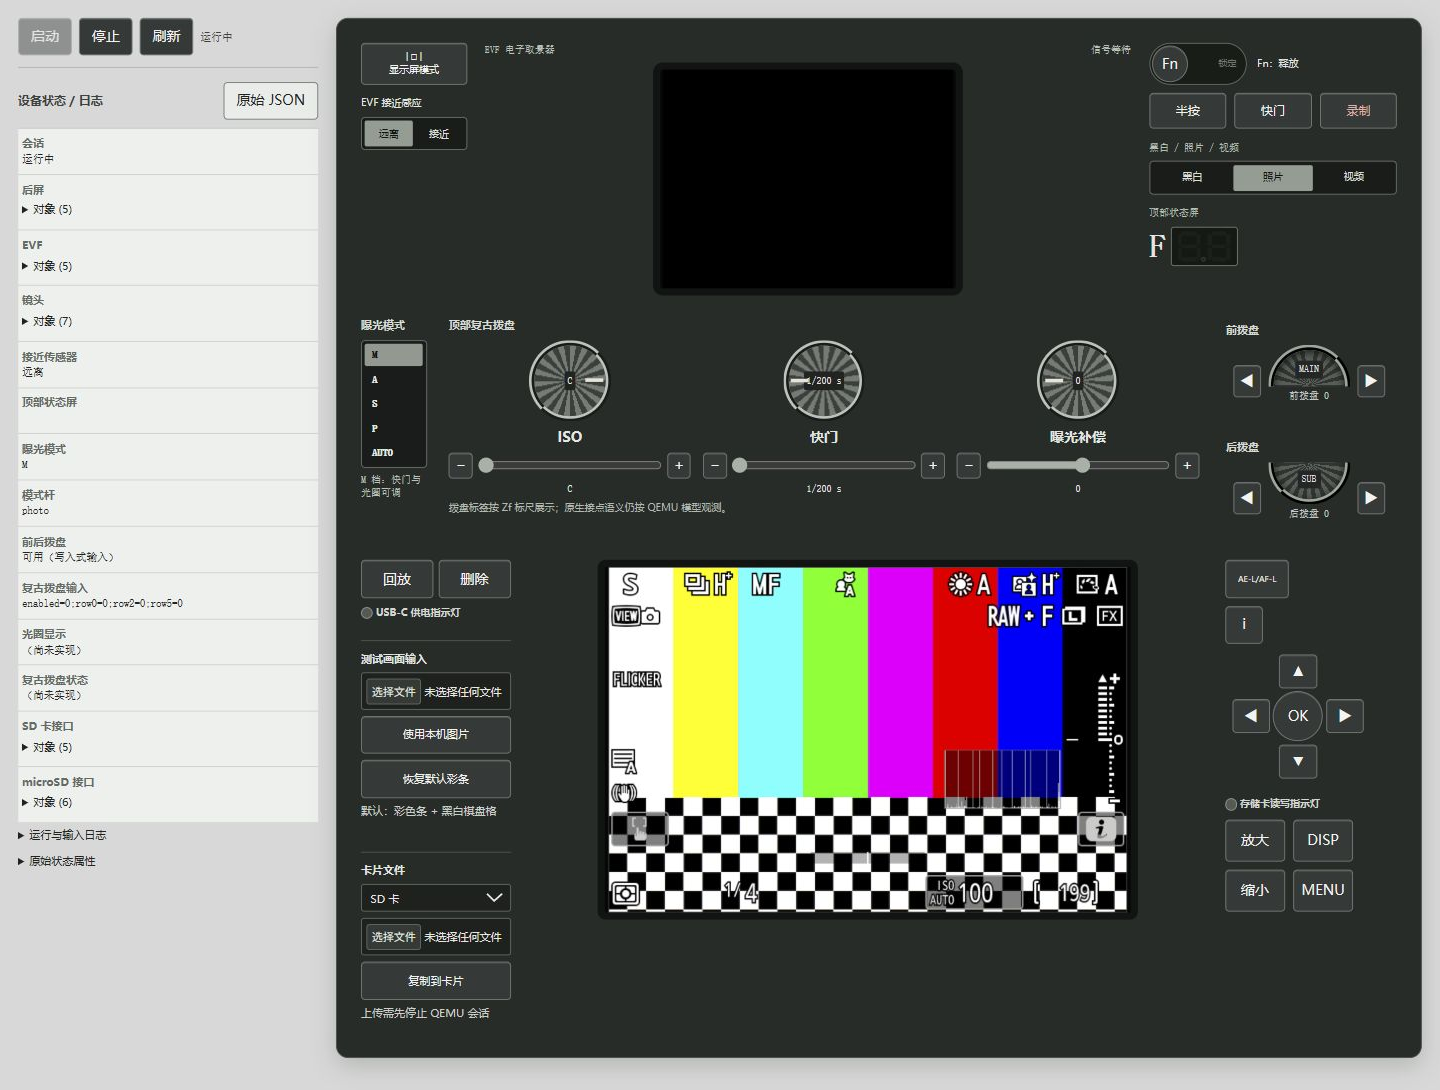
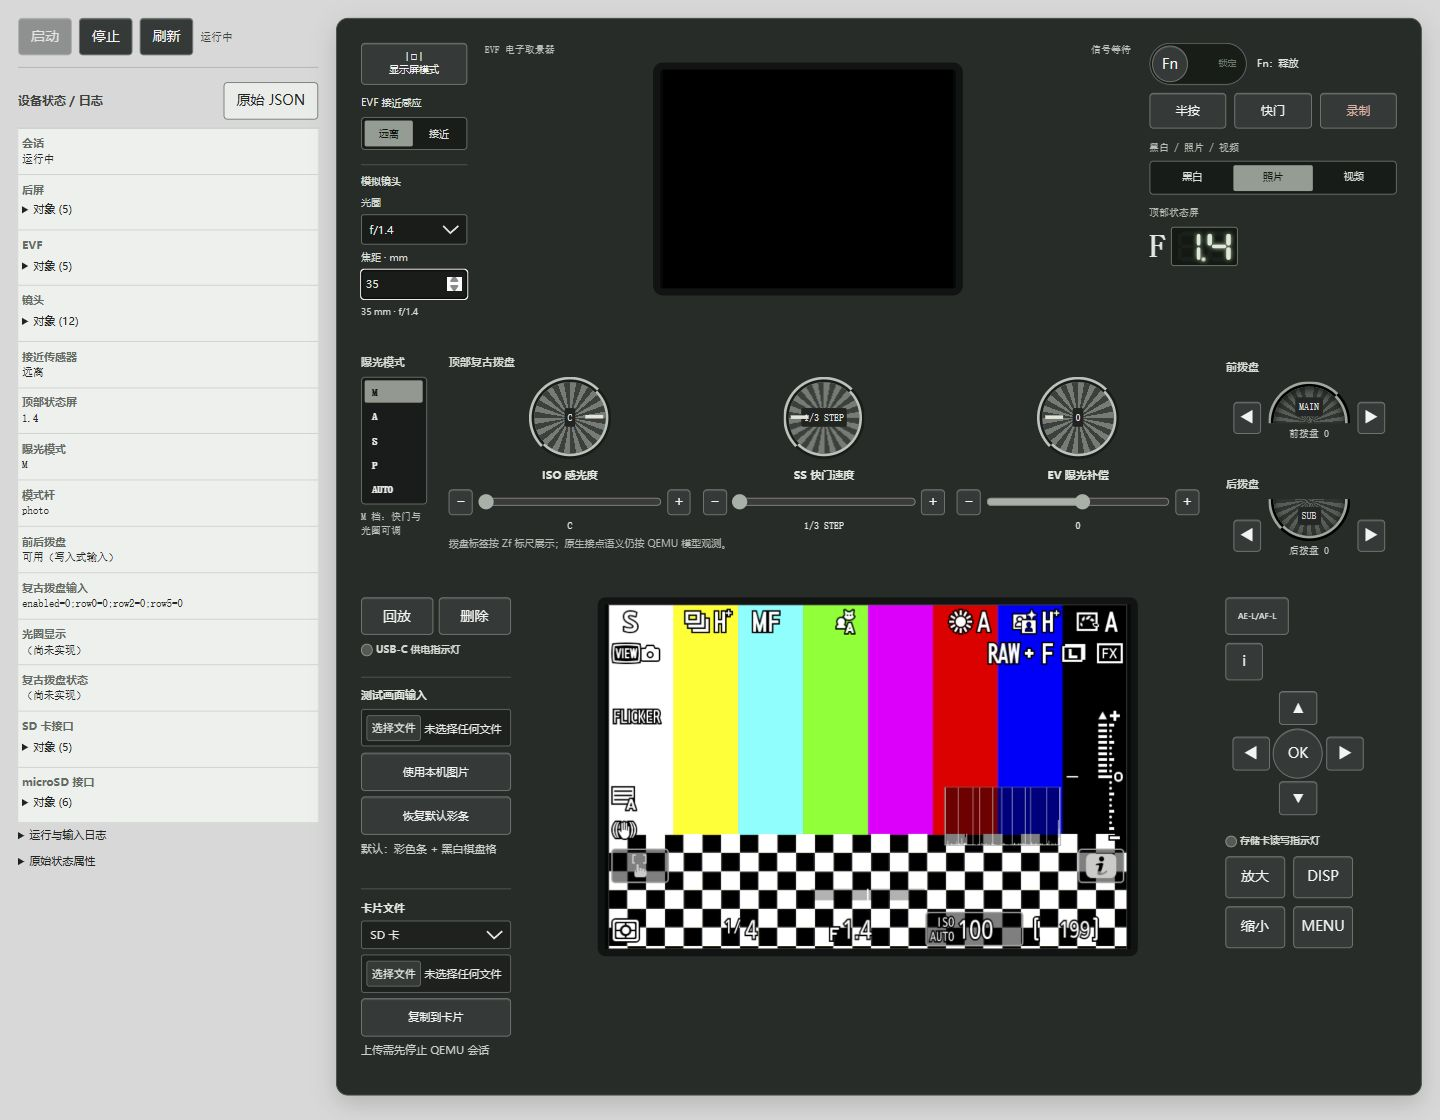
Refresh WebUI screenshot and add display demos

diff --git a/tests/check_release_tree.py b/tests/check_release_tree.py
@@ -26,9 +26,12 @@ PRIVATE = (
     re.compile(r'(?i)\b(?:boot|run|checkpoint|trial)\d+\b'),
 )
 
-# Reviewed documentation screenshot only; all other binary/media files are rejected.
+# Explicitly reviewed documentation images only; other binary/media files are rejected.
 PUBLIC_IMAGES = {
[5 lines of base64/hex data omitted]
 }
 
 

diff --git a/README.md b/README.md
@@ -6,7 +6,23 @@ An experimental Nikon Zf C3.01 machine model, with a command-line launcher and a
 
 ![Zf QEMU WebUI with the synthetic sensor test chart](docs/images/webui.png)
 
-WebUI example: the synthetic chart enters the sensor model; the guest renders its own controls and overlays. Runtime logs are collapsed in this screenshot.
+WebUI example with adjustable lens inputs (35 mm, f/1.4), the native segment top display, and camera controls. The synthetic chart enters the sensor model; the guest renders its own controls and overlays. Runtime logs are collapsed in this screenshot.
+
+## Display examples
+
+These user-provided emulator display examples show the guest's own overlays. They are display outputs, not sensor input fixtures or photographs captured by a physical camera. The default color bars and checkerboard are generated automatically; no separate image download is needed.
+
+EVF output with the synthetic color-bar/checkerboard input:
+
+![EVF output with color bars, checkerboard and native overlays](docs/images/demo-evf-chart.png)
+
+LCD output with a custom image supplied to the sensor input:
+
+![LCD output with a custom sensor image and native overlays](docs/images/demo-lcd-custom.png)
+
+LCD overlays over a black background (OSD-only example):
+
+![LCD native overlays over a black background](docs/images/demo-lcd-osd.png)
 
 ## Build
 
